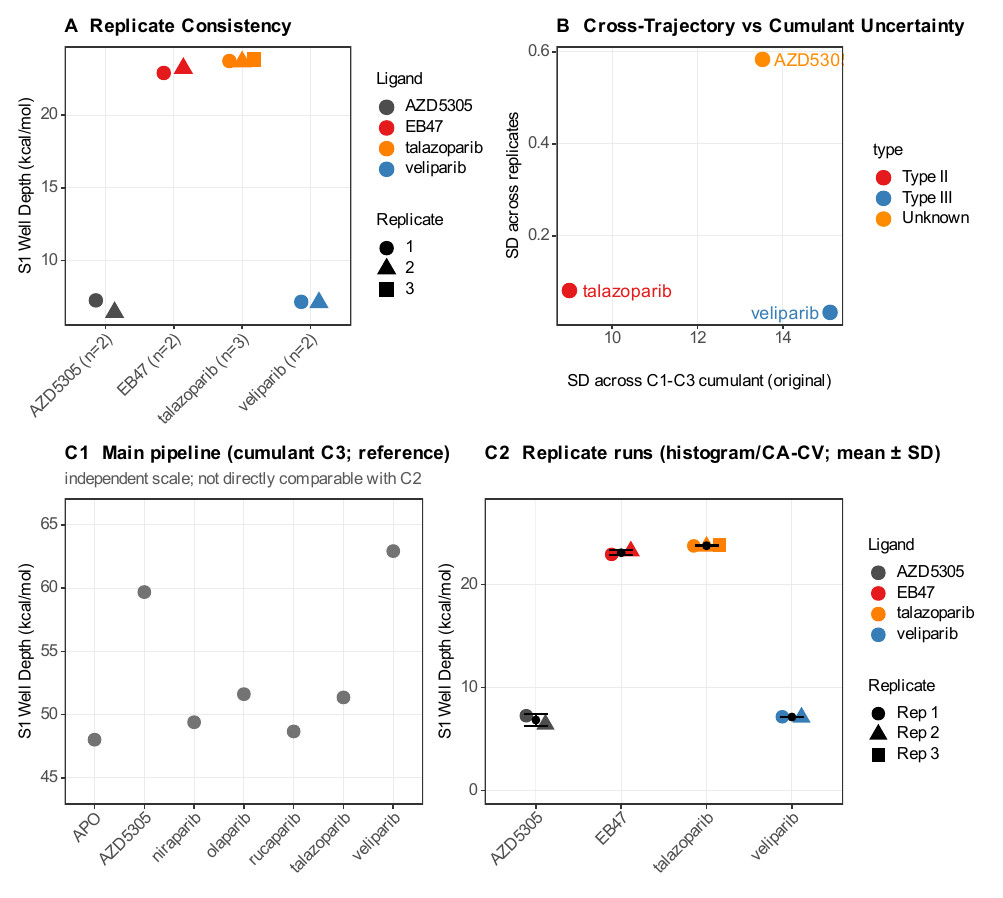
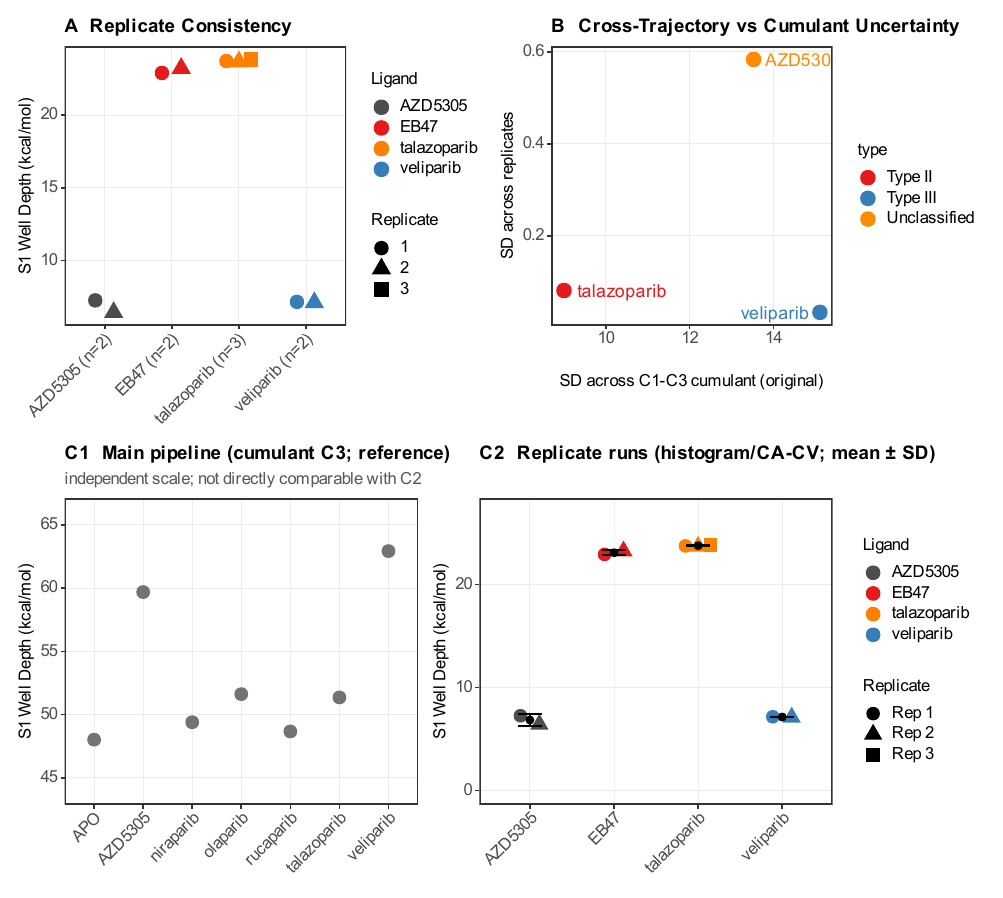
Post-sync verification: Fig10 legend 'Unknown' -> 'Unclassified' (display-only), re-render + recompile; docs updated

diff --git a/docs/standardisation_report.md b/docs/standardisation_report.md
@@ -214,3 +214,8 @@ Executed after the main round, same approval:
   Fig8, span = 8.00 pt); geometry 0 overlaps / 0 edge words on all 27; pixel-diffs restricted to
   the intended regions; main (57 pp) and SI (25 pp) recompiled; packages refreshed; repository
   synced.
+
+- **Fig10 legend label (found during post-sync verification).** The replicate-validation figure
+  (``code/18``) displayed the legacy legend term ``Unknown``; it now shows ``Unclassified``
+  (display-only via scale ``labels``, same treatment as Fig3). Re-rendered, redistributed;
+  the main manuscript was recompiled (57 pp) and re-verified (main ``Unknown`` = 0).
